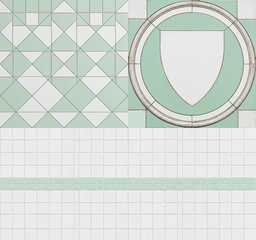
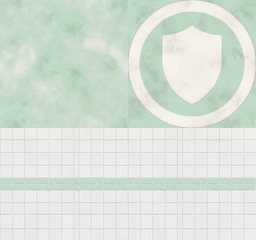
Cup arenas: walls and pillars the size of the File City arena, smooth Vaccine floor

Changed region(s): [[0.0, 0.0, 1.0, 0.5542], [0.7812, 0.3792, 0.8125, 0.4083]]

diff --git a/tools/cup_arenas.py b/tools/cup_arenas.py
@@ -54,12 +54,14 @@ PILLAR = ('c', 0, 120, 127, 239)
 # the floor reaches the File City arena's cage at 3120.
 SEGMENTS = 24
 MEDALLION_R = 1000
-FLOOR_RINGS = [1000, 1500, 2050, 2650, 3260]  # the last ring passes under the wall, so no gap shows at its foot
+FLOOR_RINGS = [1000, 1700, 2450, 3260]        # the last ring passes under the wall, so no gap shows at its foot
 WALL_R, WALL_H, WALL_T = 3120, 560, 200
-# The cup's opening shot and the bracket look from about 5150 out and 3430 up (GS_VIEWPOINT, measured): the cliff
-# stands beyond that and rises above it, and the pillars stay below the line from there to the centre.
-TERRACE_R, TERRACE_RINGS = 5900, 2
-PILLARS, PILLAR_R, PILLAR_W, PILLAR_H = 8, 4500, 380, 2400
+# The cup's opening shot and the bracket look from about 5150 out and 3430 up (GS_VIEWPOINT, measured), from outside
+# the room as in the File City arena (its walls stand at 4000): the cliff near that camera shows it its back, which
+# is not drawn. Nothing may stand beside or behind that camera (it flickers across the picture), so the pillars
+# keep to the half across from it.
+TERRACE_R, TERRACE_RINGS = 4400, 1
+PILLARS, PILLAR_R, PILLAR_W, PILLAR_H = 8, 3950, 380, 2400
 CLIFF_SEGMENTS, CLIFF_TIERS, CLIFF_H = 16, 4, 4200
 SKY_TOP = -6500
 SKY = [(72, 66, 70), (36, 33, 38), (14, 13, 18)]   # the vault's shade (128 = as drawn): cliff top, middle, top
@@ -151,12 +153,11 @@ def floor_object():
         for k in range(SEGMENTS):
             p = [ring(r0, k, SEGMENTS), ring(r0, k + 1, SEGMENTS), ring(r1, k, SEGMENTS), ring(r1, k + 1, SEGMENTS)]
             m.quad([p[1], p[0], p[3], p[2]], piece(FLOOR, k % 2, 2, i % 2, 2), FLOOR, toward=ABOVE)
-    return m
+    return wall_object(m)
 
 
 def wall_object(m):
-    """The wall round the floor, in the depth-sorted object with the pillars: the floor object is divided 2x2 by
-    the game once the bracket is over, so it keeps to the File City floor's polygon count."""
+    """The low wall round the floor, in the floor's object: drawn behind the fighters whatever the camera."""
     _, u0, v0, u1, v1 = WALL
     top = v0 + 14
     for k in range(SEGMENTS):
@@ -172,11 +173,10 @@ def wall_object(m):
 
 def pillar_object():
     m = Mesh()
-    wall_object(m)
     _, u0, v0, u1, v1 = PILLAR
     h = PILLAR_W / 2
-    for k in range(PILLARS):
-        a = 2 * math.pi * (k + .5) / PILLARS
+    for k in range(-2, 3):      # the half across from the opening shot's camera: beside or behind it they flicker
+        a = 2 * math.pi * k / PILLARS
         cx, cz = PILLAR_R * math.sin(a), PILLAR_R * math.cos(a)
         corners = [(cx + dx * math.cos(a) + dz * math.sin(a), cz - dx * math.sin(a) + dz * math.cos(a))
                    for dx, dz in ((-h, -h), (h, -h), (h, h), (-h, h))]
@@ -214,15 +214,12 @@ def surround_object():
     # The dark vault above the cliff: the rough top of the cliff picture, darker towards the top. Textured like
     # everything else: of the untextured kinds the game's GsSortObject4 has no working handler.
     mid_r, mid_y = TERRACE_R * .8, (-CLIFF_H + SKY_TOP) / 2 - 300
+    one = [(u0 + 4, v0 + 2)] * 4      # one texel of the cliff's top for every corner: a plain shade, nothing to stretch
     for k in range(n):
-        ua, ub = u0 + (u1 + 1 - u0) * (k % 2) // 2, u0 + (u1 + 1 - u0) * (k % 2 + 1) // 2 - 1
         a0, a1 = ring(TERRACE_R, k, n, -CLIFF_H), ring(TERRACE_R, k + 1, n, -CLIFF_H)
         b0, b1 = ring(mid_r, k, n, mid_y), ring(mid_r, k + 1, n, mid_y)
-        m.quad([b0, b1, a0, a1], [(ua, v0), (ub, v0), (ua, v0 + 40), (ub, v0 + 40)], CLIFF,
-               [SKY[1], SKY[1], SKY[0], SKY[0]], toward=CENTRE)
-        # up to the top as one triangle a segment, its tip on one texel of the picture (no sheared picture)
-        m.tri([b0, b1, (0, SKY_TOP, 0)], [(ua, v0), (ub, v0), ((ua + ub) // 2, v0)], CLIFF,
-              [SKY[1], SKY[1], SKY[2]], toward=CENTRE)
+        m.quad([b0, b1, a0, a1], one, CLIFF, [SKY[1], SKY[1], SKY[0], SKY[0]], toward=CENTRE)
+        m.tri([b0, b1, (0, SKY_TOP, 0)], one[:3], CLIFF, [SKY[1], SKY[1], SKY[2]], toward=CENTRE)
     return m
 
 
